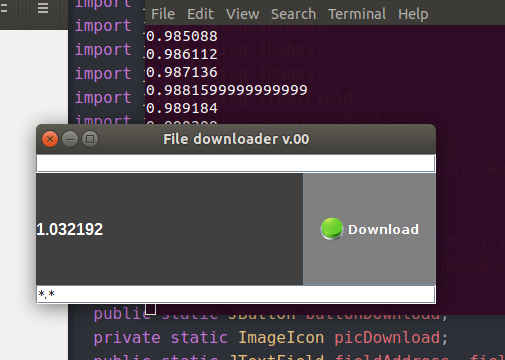
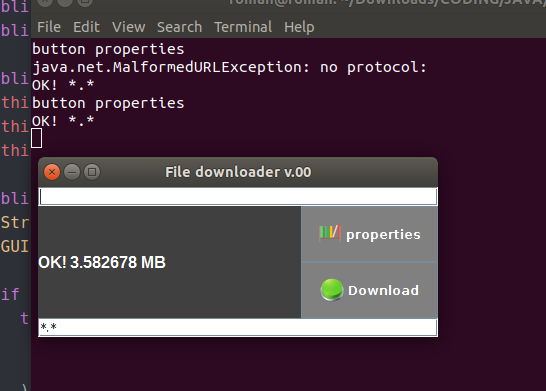
Added button properties

diff --git a/Downloader.java b/Downloader.java
@@ -1,4 +1,4 @@
-// Created oct 03 wed 2018
+// Created oct 04 thu 2018
 //FILE_URL = "https://archive.org/download/Episode1-IntroductionToThePodcast/MBp1.mp3";
 //FILE_URL = "https://archive.org/download/PlanetoftheApes/Retroist-154-The-Planet-of-the-Apes.mp3";
 // https://archive.org/details/Episode1-IntroductionToThePodcast
@@ -11,39 +11,52 @@ import java.io.BufferedInputStream;
 public class Downloader extends Thread {
   public static String FILE_URL;
   public static String FILE_NAME;
+  public static boolean key;
 
-  public Downloader ( String FILE_URL, String FILE_NAME ) {
+  public Downloader ( String FILE_URL, String FILE_NAME, boolean key ) {
     this.FILE_URL = FILE_URL;
     this.FILE_NAME = FILE_NAME;
+    this.key = key;
   }
+  public void run () {
+    String info = null;
+    GUI gui = new GUI ();
 
-public void run () {
-  String info = null;
-  GUI gui = new GUI ();
+    if ( key ) {
+      try (
+            BufferedInputStream in = new BufferedInputStream ( new URL ( FILE_URL ).openStream () );
+            FileOutputStream fileOutputStream = new FileOutputStream ( FILE_NAME );
+      ) {
+          info = ( ( new URL ( FILE_URL ).openConnection ().getContentLength () ) / 1000000.0 ) + " MB";
+          System.out.println ( info );
+          gui.label.setText ( info );
 
-  try (
-        BufferedInputStream in = new BufferedInputStream ( new URL ( FILE_URL ).openStream () );
-        FileOutputStream fileOutputStream = new FileOutputStream ( FILE_NAME );
-  ) {
-      info = ( ( new URL ( FILE_URL ).openConnection ().getContentLength () ) / 1000000.0 ) + " MB";
-      System.out.println ( info );
-      gui.label.setText ( info );
-
-      byte [] dataBuffer = new byte [ 1024 ];
-      int bytesRead;
-      int i = 0;
-      while ( ( bytesRead = in.read ( dataBuffer, 0, 1024 ) ) != -1 ) {
-        fileOutputStream.write ( dataBuffer, 0, bytesRead );
-        i++;
-        String receivedData = String.valueOf ( ( i * 1.024 ) / 1000.0 );
-        gui.label.setText ( receivedData );
-        System.out.println ( ( i * 1.024 ) / 1000.0 );
-      }
-    } catch ( IOException e ) {
-      System.out.println ( e );
+          byte [] dataBuffer = new byte [ 1024 ];
+          int bytesRead;
+          int i = 0;
+          while ( ( bytesRead = in.read ( dataBuffer, 0, 1024 ) ) != -1 ) {
+            fileOutputStream.write ( dataBuffer, 0, bytesRead );
+            i++;
+            String receivedData = String.valueOf ( ( i * 1.024 ) / 1000.0 );
+            gui.label.setText ( receivedData );
+            System.out.println ( ( i * 1.024 ) / 1000.0 );
+          }
+        } catch ( IOException e ) {
+          System.out.println ( e );
+        }
     }
-    gui.label.setText ( "OK! " + info );
-    System.out.println ( "OK! " + FILE_NAME );
-    gui.close ();
-}
+      else {
+        try (
+              BufferedInputStream in = new BufferedInputStream ( new URL ( FILE_URL ).openStream () );
+        ) {
+          info = ( ( new URL ( FILE_URL ).openConnection ().getContentLength () ) / 1000000.0 ) + " MB";
+          //System.out.println ( info );
+          gui.label.setText ( info );
+          } catch ( IOException e ) {
+            System.out.println ( e );
+          }
+      }
+        gui.label.setText ( "OK! " + info );
+        System.out.println ( "OK! " + FILE_NAME );
+      }
 }

diff --git a/GUI.java b/GUI.java
@@ -1,4 +1,4 @@
-// Created oct 03 wed 2018
+// Created oct 04 thu 2018
 
 import java.awt.BorderLayout;
 import java.awt.Color;
@@ -19,8 +19,8 @@ public class GUI extends Thread implements Runnable {
   public static JFrame frame = new JFrame ();
   public static JPanel windowContent, paneButton;
   public static JLabel label, waitBar;
-  public static JButton buttonDownload;
-  private static ImageIcon picDownload;
+  public static JButton buttonGetProperties, buttonDownload;
+  private static ImageIcon picProperties, picDownload;
   public static JTextField fieldAddress, fieldOut;
 
   public GUI () {
@@ -35,6 +35,7 @@ public class GUI extends Thread implements Runnable {
   }
 
   private void initUI () {
+    picProperties = new ImageIcon ( getClass ().getResource ( "pic/shelf.png" ) );
     picDownload = new ImageIcon ( getClass ().getResource ( "pic/download_00.png" ) );
     border = new BorderLayout ();
     windowContent = new JPanel ();
@@ -44,6 +45,10 @@ public class GUI extends Thread implements Runnable {
     label = new JLabel ( ". . .               ", SwingConstants.CENTER ); // 20 times
     label.setFont ( new Font ( "Liberation Sans", Font.BOLD, 16 ) );
     label.setForeground ( Color.WHITE );
+
+    buttonGetProperties = new JButton ( "properties", picProperties );
+    buttonGetProperties.setBackground ( Color.GRAY );
+    buttonGetProperties.setForeground ( Color.WHITE );
     buttonDownload = new JButton ( "Download", picDownload );
     buttonDownload.setBackground ( Color.GRAY );
     buttonDownload.setForeground ( Color.WHITE );
@@ -51,7 +56,8 @@ public class GUI extends Thread implements Runnable {
     fieldAddress = new JTextField ();
     fieldOut = new JTextField ( "*.*" );
 
-    paneButton.setLayout ( new GridLayout ( 1, 1, 0, 0 ) );
+    paneButton.setLayout ( new GridLayout ( 2, 1, 0, 0 ) );
+    paneButton.add ( buttonGetProperties );
     paneButton.add ( buttonDownload );
 
     windowContent.setBackground ( Color.DARK_GRAY );
@@ -60,10 +66,17 @@ public class GUI extends Thread implements Runnable {
     windowContent.add ( label, BorderLayout.WEST );
     windowContent.add ( paneButton, BorderLayout.EAST );
 
+    buttonGetProperties.addActionListener ( ( ActionEvent event ) -> {
+      System.out.println ( "button properties" );
+      Downloader down = new Downloader ( fieldAddress.getText (), fieldOut.getText (), false );
+      Thread t1 = new Thread ( down );
+      t1.start ();
+    }); // end of adapter
+
     //////////////////////////////////////////////////////////////////////////////////////////////////////
     buttonDownload.addActionListener ( ( ActionEvent event ) -> {
       System.out.println ( "button download" );
-      Downloader down = new Downloader ( fieldAddress.getText (), fieldOut.getText () );
+      Downloader down = new Downloader ( fieldAddress.getText (), fieldOut.getText (), true );
       Thread t1 = new Thread ( down );
       t1.start ();
     }); // end of adapter

diff --git a/README.md b/README.md
@@ -2,3 +2,7 @@
 I wrote this program on Java Swing. The program at startup simply downloads the file from the network (see Dowloader.java FILE_URL) and shows the amount of the file already downloaded to the disk.
 2018 oct 01
 I rewrote the code a bit, leaving only two classes. Added "Download" button.
+2018 oct 2,3
+Some changes have been added: the “URL” field and the “extension” field, etc.
+2018 oct 4
+Added button properties
